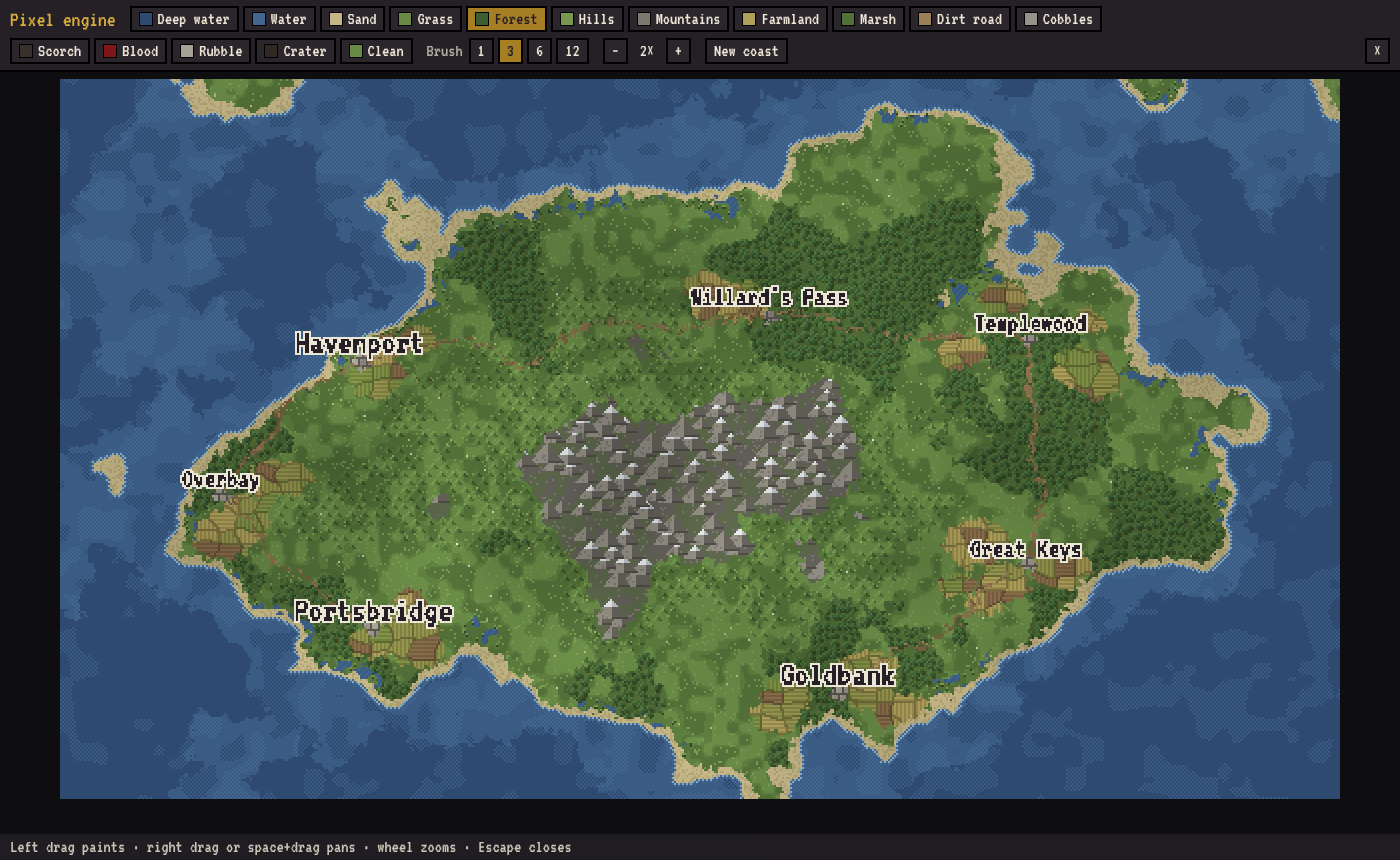
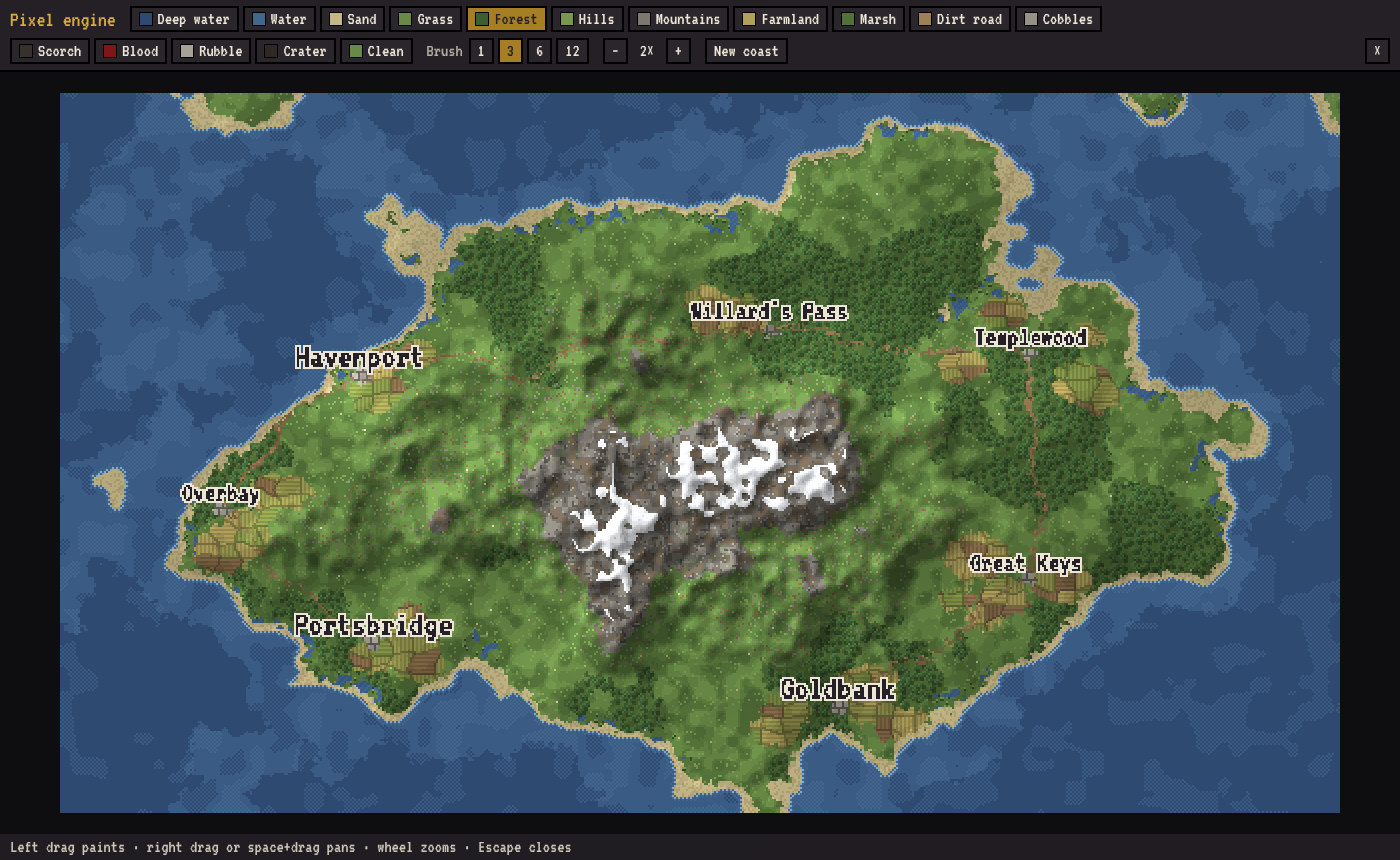
Draw mountains and hills from above, shaded by elevation
The raster gains an elevation layer. Land is lit from the north-west in
hard steps, so slopes read as relief without any side-view shapes:
mountains become a rock texture (stone, scree, cracks, moss lower down),
hills become rough grass, and snow covers whatever rises above the snow
line. Mountain and hill brushes raise the ground; lowland brushes flatten
it. The brief now records that elevation and snow come from Azgaar's
data in the world view.

Claude-Session: https://claude.ai/code/session_019BrViayk1gv58S7Cf5V4Zu

diff --git a/src/fluoria/raster.ts b/src/fluoria/raster.ts
@@ -7,12 +7,16 @@ export const CHUNK = 256;
 
 const C = Object.fromEntries(Object.entries(Palette).map(([k, v]) => [k, packRGB(v)])) as Record<Swatch, number>;
 
+/** Elevation (0–255) above which land is snow-covered; jittered so the line is ragged */
+const SNOW_LINE = 205;
+
 /**
- * A grid of game pixels: what terrain and overlay each pixel holds, and the colour it renders to.
- * Colours are derived, never stored by hand, so painting only ever changes `terrain` and `overlay`.
+ * A grid of game pixels seen from straight above: terrain, elevation and overlay per pixel, and the colour each
+ * renders to. Colours are derived, never stored by hand, so painting only changes the data layers.
  */
 export class PixelRaster {
   readonly terrain: Uint8Array;
+  readonly elevation: Uint8Array; // 0 lowland … 255 highest peak; drives relief shading and snow
   readonly overlay: Uint8Array;
   readonly amount: Uint8Array;
   readonly pixels: Uint32Array;
@@ -27,6 +31,7 @@ export class PixelRaster {
   ) {
     const size = width * height;
     this.terrain = new Uint8Array(size).fill(Terrain.Grass);
+    this.elevation = new Uint8Array(size);
     this.overlay = new Uint8Array(size);
     this.amount = new Uint8Array(size);
     this.pixels = new Uint32Array(size);
@@ -39,6 +44,20 @@ export class PixelRaster {
     const cx = x < 0 ? 0 : x >= this.width ? this.width - 1 : x;
     const cy = y < 0 ? 0 : y >= this.height ? this.height - 1 : y;
     return this.terrain[cy * this.width + cx];
+  }
+
+  elevationAt(x: number, y: number): number {
+    const cx = x < 0 ? 0 : x >= this.width ? this.width - 1 : x;
+    const cy = y < 0 ? 0 : y >= this.height ? this.height - 1 : y;
+    return this.elevation[cy * this.width + cx];
+  }
+
+  /** Light from the north-west: slopes facing it brighten, slopes away darken, in hard steps */
+  relief(x: number, y: number): number {
+    const e = (dx: number, dy: number) => this.elevationAt(x + dx, y + dy);
+    const slope = (e(-2, -2) + e(-2, 0) + e(0, -2) - e(2, 2) - e(2, 0) - e(0, 2)) / 3;
+    const f = Math.max(0.6, Math.min(1.32, 1 - slope * 0.022));
+    return 1 + Math.round((f - 1) / 0.08) * 0.08;
   }
 
   /** Flag every chunk touching the rectangle, padded for edge effects that read neighbours */
@@ -110,6 +129,9 @@ export class PixelRaster {
       if (t === Terrain.Mountains || t === Terrain.Cobbles) return shadeP(C.stone2, macro);
       return hash2(x, y, s + 2) < 0.6 ? C.sand : C.sand2;
     }
+    const relief = this.relief(x, y);
+    if (this.elevationAt(x, y) > SNOW_LINE + (valueNoise(x, y, 6, s + 4) - 0.5) * 40)
+      return shadeP(hash2(x, y, s + 6) < 0.12 ? packRGB([210, 214, 222]) : C.snow, relief);
     let c: number;
     switch (t) {
       case Terrain.Sand:
@@ -139,7 +161,7 @@ export class PixelRaster {
       default:
         c = this.grass(x, y);
     }
-    return shadeP(c, macro);
+    return shadeP(c, macro * relief);
   }
 
   private grass(x: number, y: number): number {
@@ -176,52 +198,24 @@ export class PixelRaster {
     return shadow ? shadeP(ground, 0.62) : shadeP(ground, 0.86);
   }
 
+  /** Rough upland grass: the shape comes from elevation shading, the texture from scattered rock and bare earth */
   private hills(x: number, y: number): number {
-    const s = this.seed;
-    const base = this.grass(x, y);
-    const cy = Math.floor(y / 4);
-    for (const gy of [cy, cy - 1, cy - 2]) {
-      const offset = (((gy % 2) + 2) % 2) * 3;
-      const cx = Math.floor((x - offset) / 6);
-      for (const gx of [cx, cx + 1, cx - 1]) {
-        if (hash2(gx, gy, s + 40) < 0.25) continue;
-        const ox = gx * 6 + offset + Math.floor(hash2(gx, gy, s + 41) * 2);
-        const oy = gy * 4;
-        if (this.terrainAt(ox, oy) !== Terrain.Hills) continue;
-        const dx = x - ox;
-        const dy = y - oy;
-        const f = dx >= -2 && dx <= 2 && dy >= 0 && dy <= 2 ? MOUND[dy * 5 + dx + 2] : 0;
-        if (f) return shadeP(base, f);
-      }
-    }
-    return base;
+    const r = hash2(x, y, this.seed + 40);
+    if (r < 0.04) return C.stone;
+    if (r < 0.08) return C.dirt2;
+    return this.grass(x, y);
   }
 
+  /** Bare rock from above: mottled stone, scree, dark cracks, and moss creeping in lower down */
   private mountains(x: number, y: number): number {
     const s = this.seed;
-    const n = valueNoise(x, y, 5, s + 50);
+    const n = valueNoise(x, y, 4, s + 50);
     const r = hash2(x, y, s + 51);
-    let base = n > 0.62 ? C.stone2 : mixP(C.stone2, C.g3, 0.45);
-    if (r < 0.06) base = C.stone;
-    const cy = Math.floor(y / 7);
-    for (const gy of [cy - 1, cy]) {
-      const offset = (((gy % 2) + 2) % 2) * 5;
-      const cx = Math.floor((x - offset) / 10);
-      for (const gx of [cx - 1, cx, cx + 1]) {
-        if (hash2(gx, gy, s + 56) < 0.3) continue;
-        const px = gx * 10 + offset + Math.floor(hash2(gx, gy, s + 52) * 4);
-        const py = gy * 7 + Math.floor(hash2(gx, gy, s + 53) * 3);
-        const tall = 5 + Math.floor(hash2(gx, gy, s + 54) * 5);
-        if (this.terrainAt(px, py + tall) !== Terrain.Mountains) continue;
-        const dx = x - px;
-        const dy = y - py;
-        if (dy < 0 || dy > tall || Math.abs(dx) > dy * 0.9 + 0.5) continue;
-        const snowy = hash2(gx, gy, s + 55) > 0.4 && dy < tall * 0.4;
-        if (dx <= 0) return snowy ? C.snow : dx === 0 ? C.stone3 : r < 0.15 ? C.stone : C.stone3;
-        return snowy ? packRGB([186, 190, 198]) : shadeP(C.stone2, dy === tall ? 0.78 : 1);
-      }
-    }
-    return base;
+    const moss = Math.max(0, 1 - this.elevationAt(x, y) / 170);
+    if (r < 0.05) return C.stone3;
+    if (valueNoise(x, y, 2, s + 52) > 0.82) return shadeP(C.stone2, 0.78);
+    const rock = n > 0.55 ? C.stone : n > 0.35 ? C.stone2 : mixP(C.stone2, C.dirt2, 0.4);
+    return moss > 0 && hash2(x, y, s + 53) < moss * 0.8 ? mixP(rock, C.g3, 0.55) : rock;
   }
 
   private fieldCell(x: number, y: number): number {
@@ -305,9 +299,6 @@ export class PixelRaster {
 
 // a 2×2 crown lit from the top-left, with a dark lower-right pixel; 3×3 around the trunk, 0 = no canopy
 const TREE = [0, C.tree3, 0, C.tree3, C.tree, C.tree, 0, C.tree, C.tree2];
-
-// light and shade factors for a small mound, 5 wide × 3 tall from its peak, 0 = outside
-const MOUND = [0, 0, 1.18, 0, 0, 0, 1.12, 1.05, 0.72, 0, 1.1, 1.05, 0.95, 0.8, 0.72];
 
 function shadeP(p: number, f: number): number {
   const r = Math.min(255, Math.round((p & 255) * f));

diff --git a/src/fluoria/brushes.ts b/src/fluoria/brushes.ts
@@ -1,12 +1,21 @@
 import { seededRandom, valueNoise } from "./noise";
 import type { PixelRaster } from "./raster";
-import { Overlay, type OverlayId, type TerrainId } from "./terrain";
+import { isWater, Overlay, type OverlayId, Terrain, type TerrainId } from "./terrain";
 
-/** Paint a round patch of terrain, with a slightly ragged rim so strokes don't look stamped */
+/**
+ * Paint a round patch of terrain, with a slightly ragged rim so strokes don't look stamped.
+ * Mountains and hills raise the ground (a dome, highest in the middle) so relief and snow follow; lowland flattens it
+ */
 export function paintTerrain(raster: PixelRaster, cx: number, cy: number, radius: number, terrain: TerrainId): void {
+  const peak = terrain === Terrain.Mountains ? 240 : terrain === Terrain.Hills ? 120 : 0;
   forDisc(raster, cx, cy, radius + 1, (i, x, y, d) => {
     const rim = radius + (valueNoise(x, y, 2, raster.seed + 7) - 0.5) * Math.min(2, radius * 0.5);
-    if (d <= rim) raster.terrain[i] = terrain;
+    if (d > rim) return;
+    raster.terrain[i] = terrain;
+    if (peak) {
+      const dome = peak * (0.45 + 0.55 * (1 - d / (radius + 1))) * (0.8 + valueNoise(x, y, 3, raster.seed + 8) * 0.4);
+      raster.elevation[i] = Math.max(raster.elevation[i], Math.min(255, Math.round(dome)));
+    } else raster.elevation[i] = isWater(terrain) ? 0 : Math.min(raster.elevation[i], 40);
   });
 }
 

diff --git a/src/fluoria/sample-scene.ts b/src/fluoria/sample-scene.ts
@@ -18,6 +18,7 @@ export function buildSampleScene(seed: number, width = 640, height = 360): { ras
       const e = fbm(x, y, 110, 5, seed) * 0.75 + falloff * 0.55 - 0.08;
       elevation[y * width + x] = e;
       raster.terrain[y * width + x] = terrainFor(x, y, e, seed);
+      raster.elevation[y * width + x] = elevationFor(x, y, e, seed);
     }
 
   const random = seededRandom(seed);
@@ -62,6 +63,14 @@ export function buildSampleScene(seed: number, width = 640, height = 360): { ras
     size: i < 3 ? 18 : 14
   }));
   return { raster, labels };
+}
+
+/** Lowland rolls gently; uplands get sharp ridges so relief shading has something to catch */
+function elevationFor(x: number, y: number, e: number, seed: number): number {
+  const land = Math.max(0, (e - 0.47) / 0.45);
+  const ridge = 1 - Math.abs(2 * fbm(x, y, 18, 3, seed + 21) - 1);
+  const upland = Math.max(0, Math.min(1, (e - 0.66) / 0.14));
+  return Math.round(Math.min(255, land * 125 + ridge * upland * 100 + fbm(x, y, 9, 2, seed + 22) * 8));
 }
 
 function terrainFor(x: number, y: number, e: number, seed: number): TerrainId {

diff --git a/src/fluoria/engine.test.ts b/src/fluoria/engine.test.ts
@@ -89,6 +89,21 @@ describe("raster", () => {
     expect(surf).toContain(raster.pixels[10 * 40 + 20]);
   });
 
+  test("lights slopes facing north-west and shades slopes facing away", () => {
+    const raster = new PixelRaster(30, 30, 1);
+    paintTerrain(raster, 15, 15, 8, Terrain.Mountains);
+    expect(raster.relief(11, 11)).toBeGreaterThan(1);
+    expect(raster.relief(19, 19)).toBeLessThan(1);
+    expect(raster.relief(2, 2)).toBe(1);
+  });
+
+  test("covers high ground in snow", () => {
+    const raster = new PixelRaster(30, 30, 1);
+    raster.elevation.fill(255);
+    raster.flush();
+    expect(raster.pixels[15 * 30 + 15]).not.toBe(new PixelRaster(30, 30, 1).colorAt(15, 15));
+  });
+
   test("only re-renders the chunks a brush touched", () => {
     const raster = new PixelRaster(CHUNK * 3, CHUNK * 2, 1);
     raster.flush();

diff --git a/FLUORIA.md b/FLUORIA.md
@@ -28,6 +28,7 @@ Reference images are in `design/previews/`. The region preview (`2-region.png`) 
 
 - **Pixel art, chunky.** Every view is drawn at a low internal resolution and scaled up with nearest-neighbour (no smoothing). Zoom goes in whole-number steps (1×, 2×, 3×, 4×); below 1× a pre-shrunk image is used, so pixels never blur or shimmer.
 - **One palette for everything** (see below). Light comes from the top-left in every view.
+- **Everything is seen from straight above**, mountains included. Relief comes from elevation: slopes facing the light brighten, slopes facing away darken, in hard steps. Mountains are a rock texture (mottled stone, scree, cracks, moss lower down), hills are rough grass, and snow covers whatever is high enough. No side-view peaks or icons.
 - **Font: VT323** (Google Fonts, OFL licence), for everything: place names, room names, numbers, buttons. Rendered without smoothing.
 - **No grid look.** Buildings keep their real angles and irregular shapes from Watabou. Roofs are shaded along their own ridge line, with tile rows. Ground textures vary (several versions per tile, chosen by position, plus a gentle large-scale colour shift) so repetition never shows.
 - **Layers, not combinations.** Ground (grass, dirt, cobbles, flagstones, mud, sand, water) + overlays (blood, scorch, craters, rubble, puddles, snow) + objects (buildings, walls, trees, carts). Battle damage is an overlay on any ground.
@@ -60,6 +61,7 @@ The exact values live in `design/prototype/common.py` until the real renderer ha
 
 - Built on Azgaar's own data and generators; nothing about states, cultures, burgs or population is reinvented.
 - **Half the size.** Fluoria is 1440 × 872 map pixels at 3 miles per pixel. Set the distance scale to 1.5 miles per pixel. No data changes; the world simply measures half as large, and the extra zoom is spent on detail.
+- **Elevation and snow come from Azgaar**, not from us: each cell's height (`pack.cells.h`, sea level at 20) becomes the pixel elevation that drives relief shading, and snow follows Azgaar's own cold and glacier cells. We turn its data into texture; we don't invent terrain.
 - **Region detail when zoomed in:** forests, hills, farmland near towns, beaches, rugged coastlines, towns drawn as roof clusters, state colour as a light tint with dashed borders.
 - **One simple paint toolbar** replacing Azgaar's scattered editors, calling Azgaar's existing functions underneath:
   - Terrain brushes: water, deep water, land, mountains, hills, forest, farmland, marsh.
